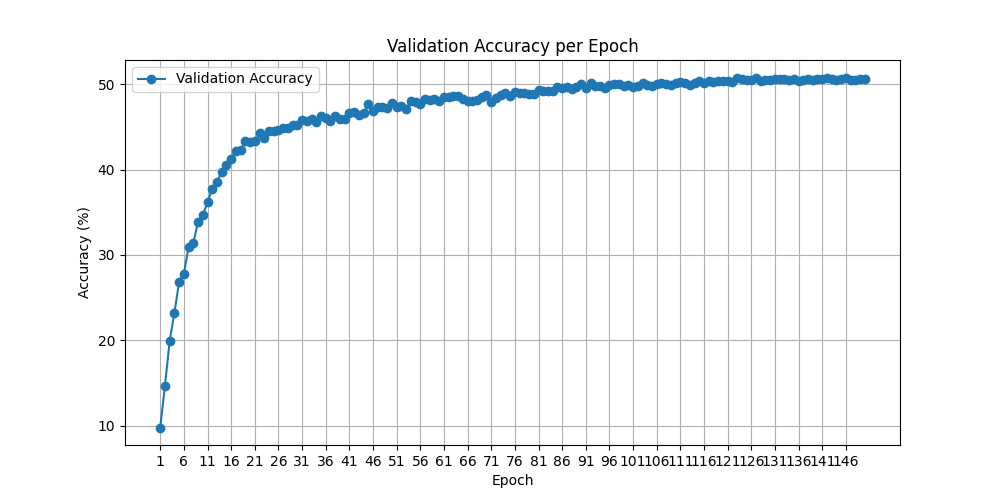
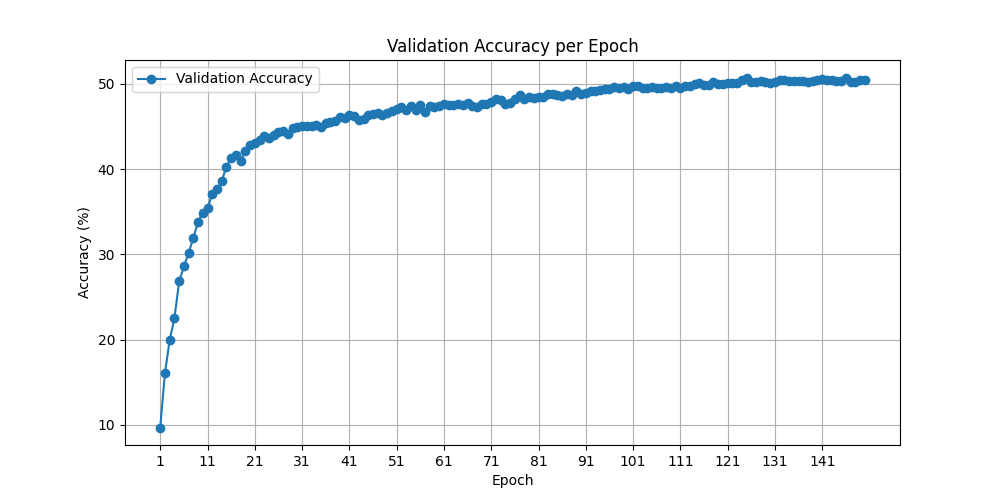
Update VGGNeXt

diff --git a/vggnext.py b/vggnext.py
@@ -35,7 +35,7 @@ class VGG(nn.Module):
         self.features = features
         self.avgpool = nn.AdaptiveAvgPool2d((7, 7))
         self.classifier = nn.Sequential(
-            nn.Linear(640 * 7 * 7, 4096),
+            nn.Linear(512 * 7 * 7, 4096),
             nn.GELU(),
             nn.Dropout(p=dropout),
             nn.Linear(4096, 4096),
@@ -81,7 +81,7 @@ def make_layers(cfg: List[Union[str, int]]) -> nn.Sequential:
 
 
 cfgs: Dict[str, List[Union[str, int]]] = {
-    "A": ["C64", "R2", "C128", "R2", "C320", "R2", "R2", "R2", "R2", "R2", "R2", "C640", "R2", "R2"]
+    "A": ["C64", "R2", "C128", "R2", "C320", "R2", "R2", "R2", "R2", "R2", "R2", "C512", "R2"]
 }
 
 

diff --git a/main.py b/main.py
@@ -225,7 +225,7 @@ if __name__ == '__main__':
     plt.title('Validation Accuracy per Epoch')
     plt.xlabel('Epoch')
     plt.ylabel('Accuracy (%)')
-    plt.xticks(range(1, EPOCHS + 1, 5))
+    plt.xticks(range(1, EPOCHS + 1, 10))
     plt.grid(True)
     plt.legend()
     plt.savefig('plots/validation_accuracy_plot.png') 
